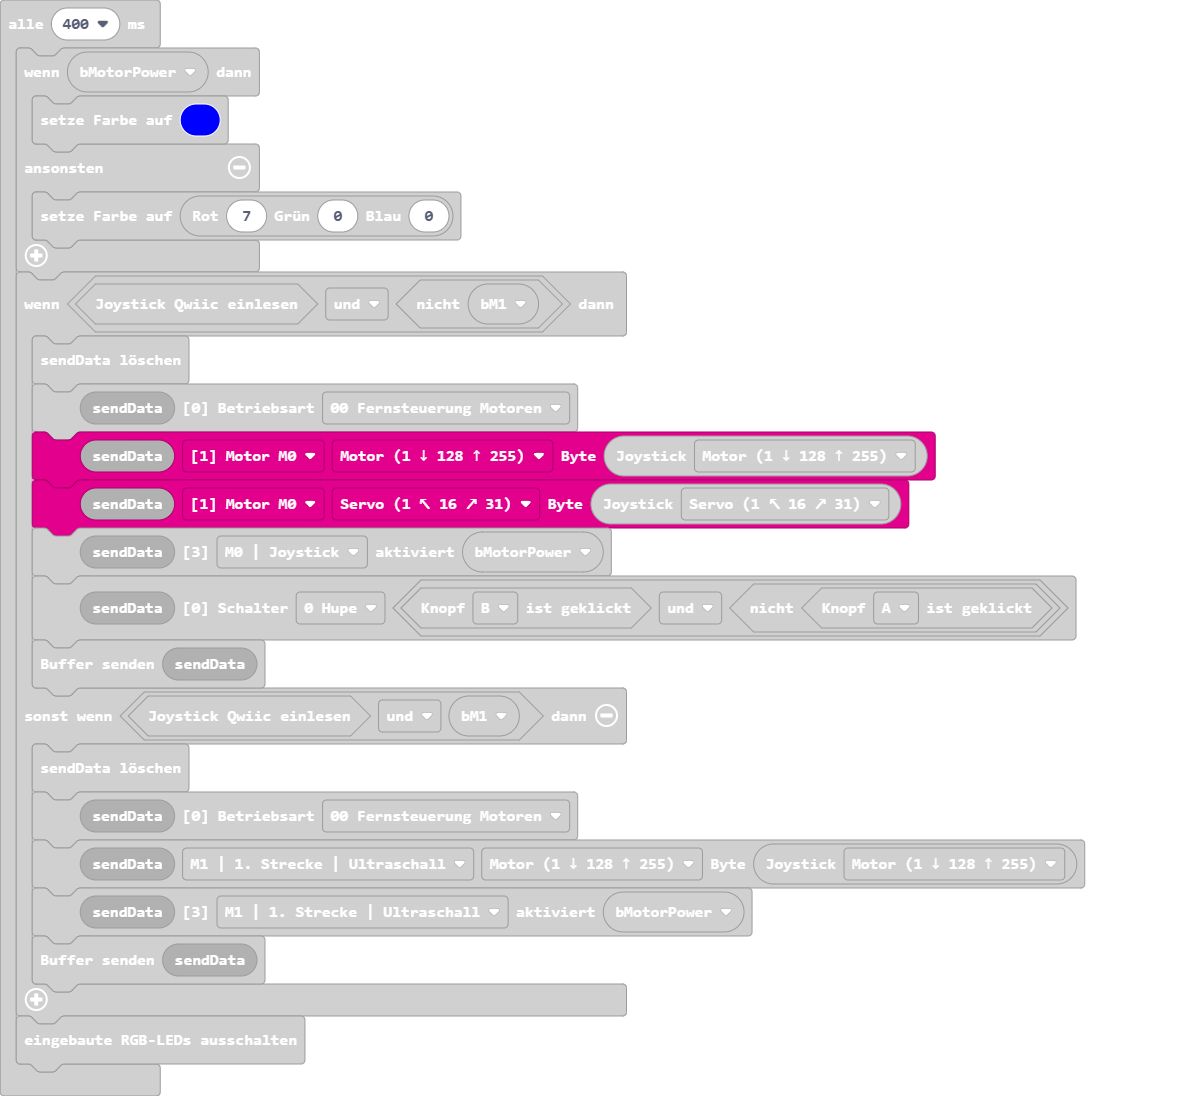
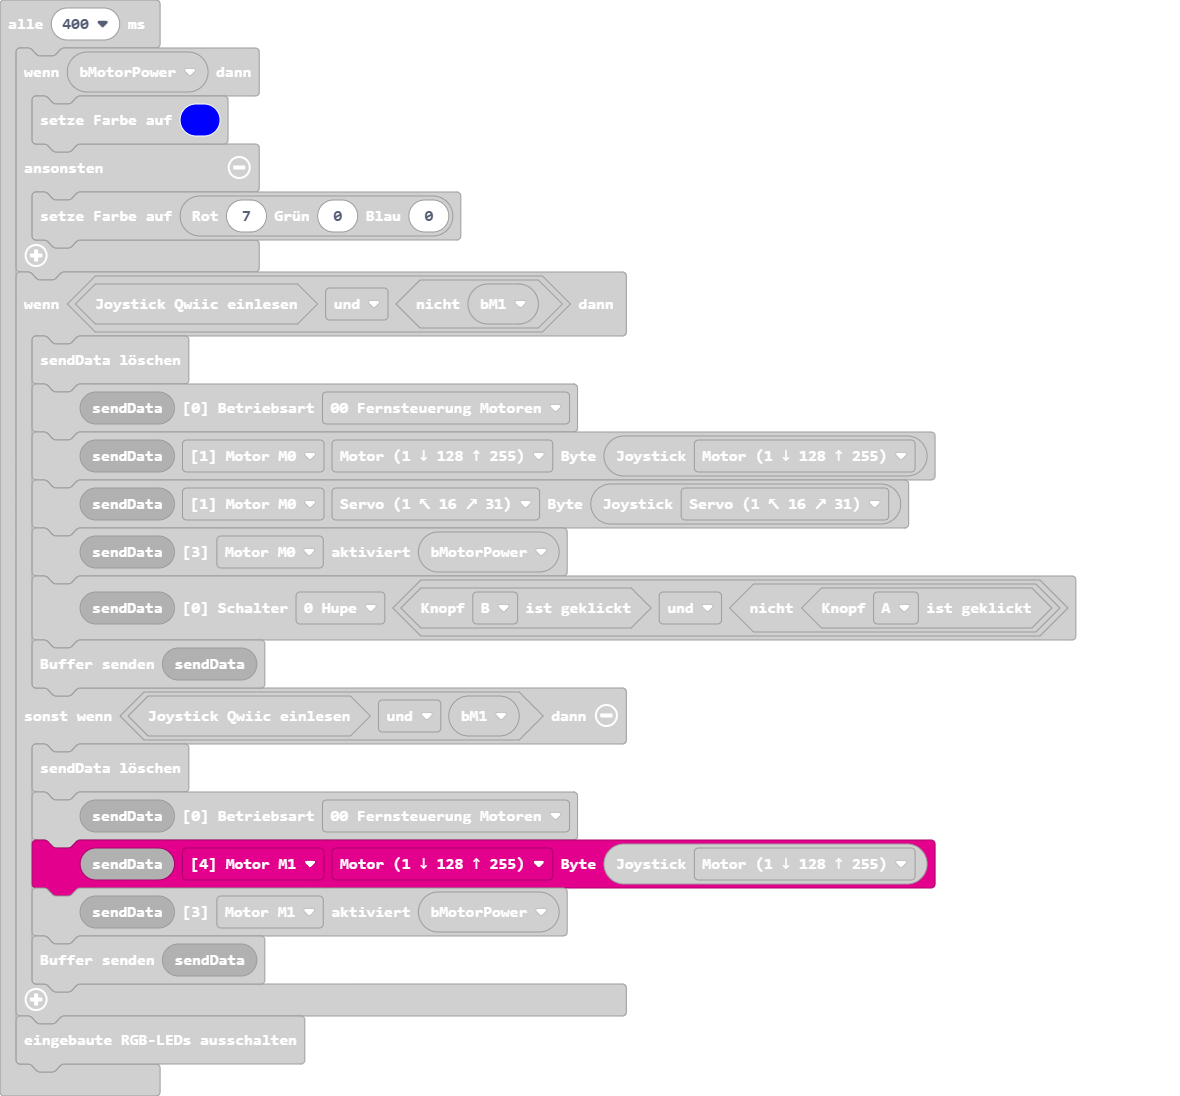
Aktualisiere pxt.json, main.blocks, main.ts

diff --git a/main.ts b/main.ts
@@ -47,7 +47,7 @@ loops.everyInterval(400, function () {
     } else if (radiosender.joystickQwiic() && bM1) {
         radio.fill_sendBuffer19()
         radio.setBetriebsart(radio.radio_sendBuffer19(), radio.e0Betriebsart.p0)
-        radio.setByte(radio.radio_sendBuffer19(), radio.eBufferPointer.p1, radio.eBufferOffset.b0_Motor, radiosender.joystickValues(radiosender.eJoystickValue.motor))
+        radio.setByte(radio.radio_sendBuffer19(), radio.eBufferPointer.m1, radio.eBufferOffset.b0_Motor, radiosender.joystickValues(radiosender.eJoystickValue.motor))
         radio.setaktiviert(radio.radio_sendBuffer19(), radio.e3aktiviert.m1, bMotorPower)
         radio.sendData(radio.radio_sendBuffer19())
     }
